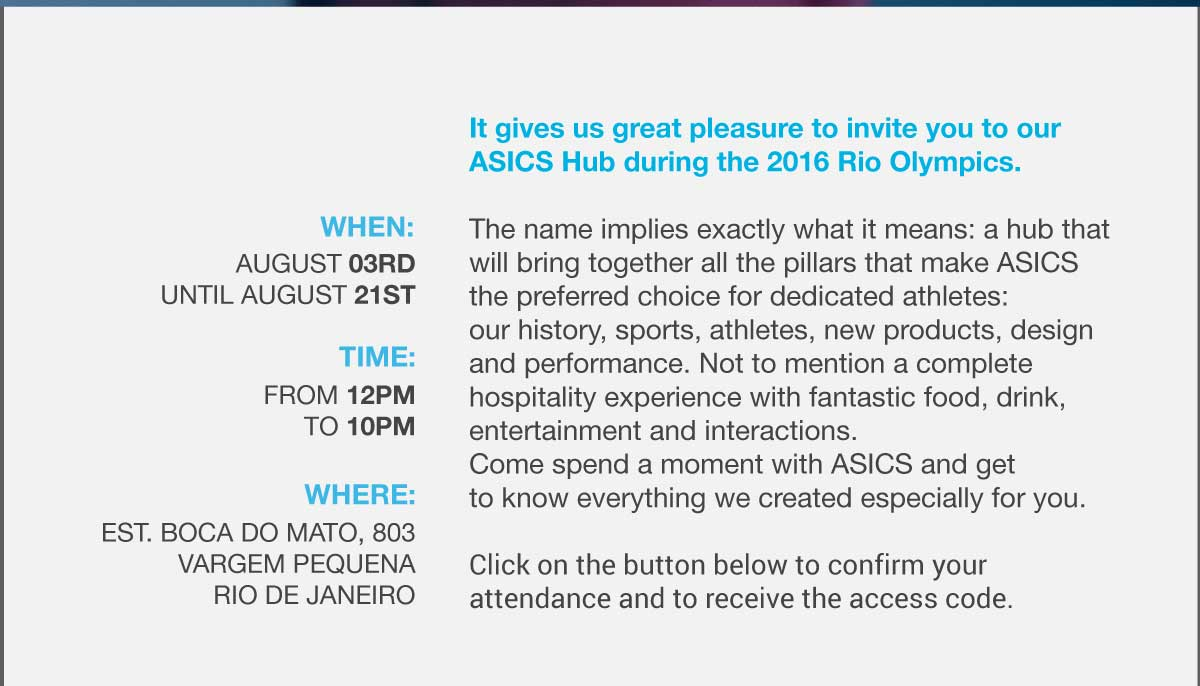
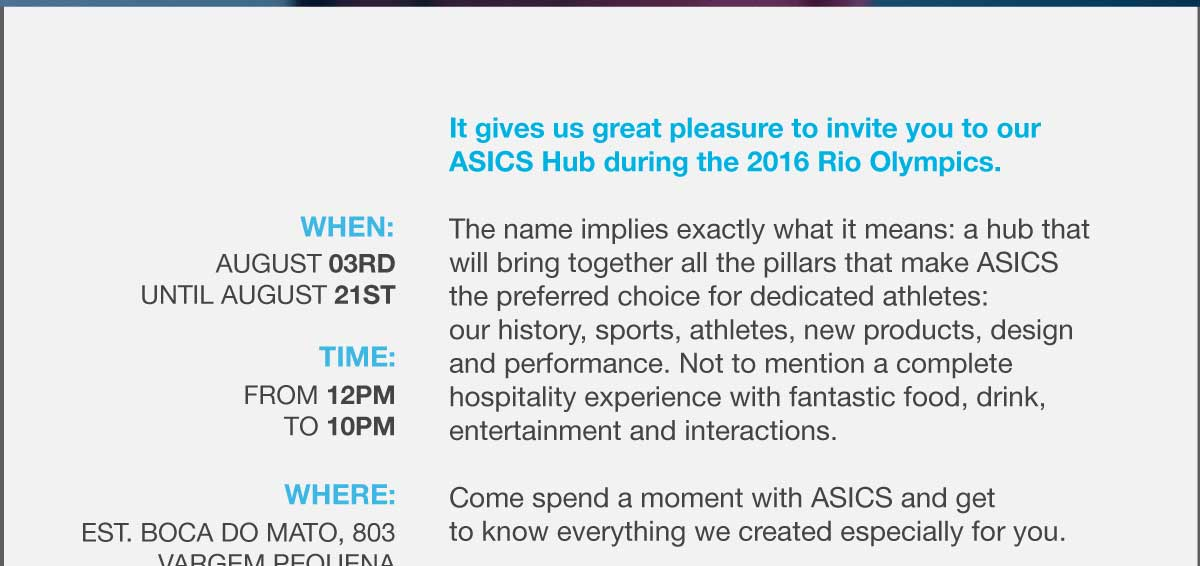
added new email images

Changed region(s): [[0.0617, 0.1502, 0.925, 1.0], [0.37, 0.811, 0.8942, 0.9611], [0.0, 0.0, 1.0, 0.03]]

diff --git a/web/app/mailers/common_mailer.rb b/web/app/mailers/common_mailer.rb
@@ -44,8 +44,9 @@ class CommonMailer < ApplicationMailer
         img_01: Rails.configuration.custom_base_url + '/images/email/invitation/en/asics_01.jpg',
         img_02: Rails.configuration.custom_base_url + '/images/email/invitation/en/asics_02.jpg?v=2',
         img_03: Rails.configuration.custom_base_url + '/images/email/invitation/en/asics_03.jpg?v=2',
-        img_04: Rails.configuration.custom_base_url + '/images/email/invitation/en/asics_04.jpg?v=2',
-        img_05: Rails.configuration.custom_base_url + '/images/email/invitation/en/asics_05.jpg',
+        img_04: Rails.configuration.custom_base_url + '/images/email/invitation/en/asics_04.jpg?v=3',
+        img_04b: Rails.configuration.custom_base_url + '/images/email/invitation/en/asics_04b.jpg',
+        img_05: Rails.configuration.custom_base_url + '/images/email/invitation/en/asics_05.jpg?v=3',
         img_06: Rails.configuration.custom_base_url + '/images/email/invitation/en/asics_06.jpg',
         salutation: 'Dear GUEST',
         intro: 'It gives us great pleasure to invite you to our ASICS Hub during the 2016 Rio Olympics.
@@ -63,8 +64,9 @@ class CommonMailer < ApplicationMailer
         img_01: Rails.configuration.custom_base_url + '/images/email/invitation/pt/asics_01.jpg',
         img_02: Rails.configuration.custom_base_url + '/images/email/invitation/pt/asics_02.jpg?v=2',
         img_03: Rails.configuration.custom_base_url + '/images/email/invitation/pt/asics_03.jpg?v=2',
-        img_04: Rails.configuration.custom_base_url + '/images/email/invitation/pt/asics_04.jpg?v=2',
-        img_05: Rails.configuration.custom_base_url + '/images/email/invitation/pt/asics_05.jpg',
+        img_04: Rails.configuration.custom_base_url + '/images/email/invitation/pt/asics_04.jpg?v=3',
+        img_04b: Rails.configuration.custom_base_url + '/images/email/invitation/pt/asics_04b.jpg?',
+        img_05: Rails.configuration.custom_base_url + '/images/email/invitation/pt/asics_05.jpg?v=3',
         img_06: Rails.configuration.custom_base_url + '/images/email/invitation/pt/asics_06.jpg',
         salutation: 'Caro CONVIDADO',
         intro: 'Temos o grande prazer de convidá-lo para o ASICS Hub durante as Olimpíadas Rio 2016.
@@ -97,7 +99,9 @@ class CommonMailer < ApplicationMailer
         img_04_left: Rails.configuration.custom_base_url + '/images/email/confirmation/en/asics_04_left.jpg',
         img_04_right: Rails.configuration.custom_base_url + '/images/email/confirmation/en/asics_04_right.jpg',
         img_05: Rails.configuration.custom_base_url + '/images/email/confirmation/en/asics_05.jpg',
-        img_06: Rails.configuration.custom_base_url + '/images/email/confirmation/en/asics_06.jpg',
+        img_06a: Rails.configuration.custom_base_url + '/images/email/confirmation/en/asics_06a.jpg',
+        img_06b: Rails.configuration.custom_base_url + '/images/email/confirmation/en/asics_06b.jpg',
+        img_06c: Rails.configuration.custom_base_url + '/images/email/confirmation/en/asics_06c.jpg',
         img_07: Rails.configuration.custom_base_url + '/images/email/confirmation/en/asics_07.jpg?v=2',
         img_08: Rails.configuration.custom_base_url + '/images/email/confirmation/en/asics_08.jpg',
         salutation: 'Dear GUEST',
@@ -111,7 +115,6 @@ class CommonMailer < ApplicationMailer
         where: 'WHERE: EST. BOCA DO MATO, 803, VARGEM PEQUENA - RIO DE JANEIRO',
         schedule: 'Learn more about our schedule here:',
         explanation: 'You are receiving this message because you were invited to enjoy the ASICS Hub on Rio 2016 Olympics.'
-
       },
       PT: {
         img_01: Rails.configuration.custom_base_url + '/images/email/confirmation/pt/asics_01.jpg',
@@ -124,7 +127,9 @@ class CommonMailer < ApplicationMailer
         img_04_left: Rails.configuration.custom_base_url + '/images/email/confirmation/pt/asics_04_left.jpg',
         img_04_right: Rails.configuration.custom_base_url + '/images/email/confirmation/pt/asics_04_right.jpg',
         img_05: Rails.configuration.custom_base_url + '/images/email/confirmation/pt/asics_05.jpg',
-        img_06: Rails.configuration.custom_base_url + '/images/email/confirmation/pt/asics_06.jpg',
+        img_06a: Rails.configuration.custom_base_url + '/images/email/confirmation/pt/asics_06a.jpg',
+        img_06b: Rails.configuration.custom_base_url + '/images/email/confirmation/pt/asics_06b.jpg',
+        img_06c: Rails.configuration.custom_base_url + '/images/email/confirmation/pt/asics_06c.jpg',
         img_07: Rails.configuration.custom_base_url + '/images/email/confirmation/pt/asics_07.jpg?v=2',
         img_08: Rails.configuration.custom_base_url + '/images/email/confirmation/pt/asics_08.jpg',
         salutation: 'Caro CONVIDADO',
